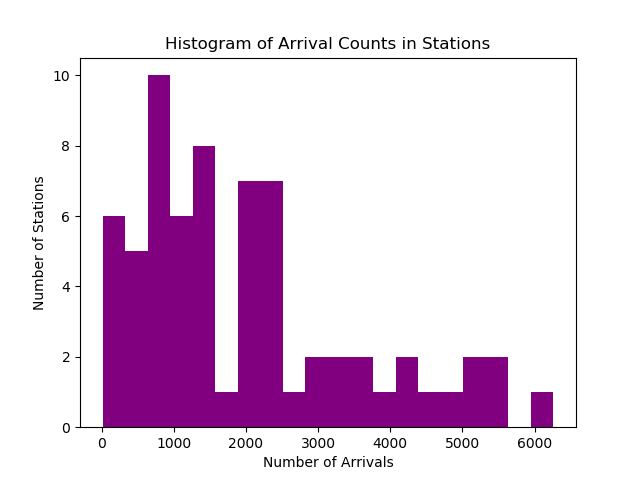
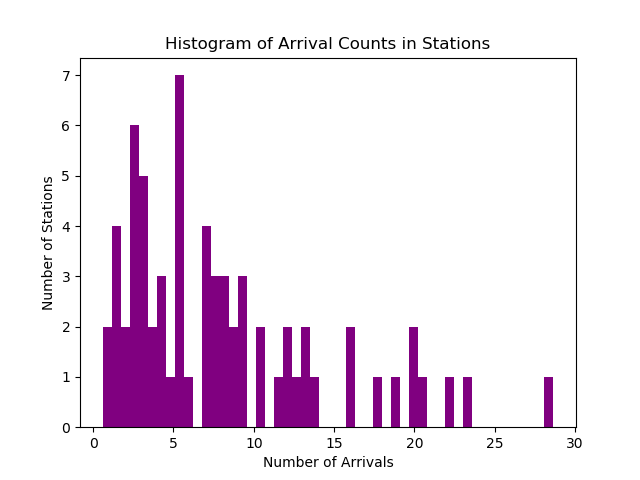
finished start/stop popularity

diff --git a/index.md b/index.md
@@ -13,39 +13,37 @@ A variety of other visualizations will be provided to answer questions throughou
 
 ### Start/Stop Stations Popularity
 
-I chose to cross-reference the keys in the provided data set with the [station metadata](https://bikeshare.metro.net/about/data/) so as to be able to provide the plain-text names of the most popular stations. The five most popular stations for arrival were
+I chose to cross-reference the keys in the provided data set with the [station metadata](https://bikeshare.metro.net/about/data/) so as to be able to provide the plain-text names of the most popular stations. Since different stations were opened at different times (and some have since closed), it is not sufficient to simply sum the arrivals and departures. Instead, we should find the average number of arrivals and departures per day for each station. Thus, I ran through the data to keep track of arrivals, departures, and opening and closing dates of stations (calculated as first and last recorded trip). These were used to calculate the stations with highest arrival and departure rates.
 
-1. 7th & Flower (4.7%, 6262 total)
-2. 7th & Spring (4.2%, 5517 total)
-3. Union Station West Portal (4.1%, 5385 total)
-4. 1st & Central (4%, 5293 total)
-5. Broadway & 3rd (3.8%, 5072 total)
+The five most popular stations for arrival were
+
+1. Broadway & 3rd (4.4%, 28.7 per day)
+2. 7th & Flower (4.3%, 23.5 per day)
+3. Traction & Rose (4%, 22 per day)
+4. 7th & Spring (3.8%, 20.7 per day)
+5. Union Station West Portal (3.7%, 20.2 per day)
 
 Similarly, the five most popular stations for departure were
 
-1. Broadway & 3rd (3.9%, 5138 total)
-2. Main & 1st (3.8%, 5059 total)
-3. 7th & Flower (3.7%, 4883 total)
-4. Grand & 7th (3.5%, 4661 total)
-5. 7th & Spring (3.5%, 4629 total)
+1. 3rd & Rose(4.4%, 24.1 per day)
+2. Broadway & 3rd (3.5%, 19.3 per day)
+3. Main & 1st (3.5%, 18.9 per day)
+4. 7th & Flower (3.4%, 18.3 per day)
+5. Traction & Rose (3.4%, 18.2 per day)
 
-One might notice that there is a good amount of overlap between the most common points of departure and arrival. In fact, 9 of the top 10 arrival and departure locations are shared. This makes a lot of sense, ass individuals who depart from one location and arrive at another are likely to later depart from their initial arrival station and arrive at their initial departure station (round trips will be a slight confounding factor here, but clearly not too large). I also chose to do a general aggregation of the data. Below I present histograms of the number of arrivals and departures
+One might notice that there is a good amount of overlap between the most common points of departure and arrival. In fact, all 10 arrival and departure locations are the same. This makes a lot of sense, as individuals who depart from one location and arrive at another are likely to later depart from their initial arrival station and arrive at their initial departure station. I also chose to do a general aggregation of the data. Below I present histograms of the number of arrivals and departures (data is binned into 50 subdivisions)
 
 ![departures_hist](/assets/departure_hist.png)
 
 ![arrivals_hist](/assets/arrivals_hist.png)
 
-#### Header 4
+We see that overall there are a couple of stations with higher arrival and departure rates, but the majority of stations have a relatively lower arrival and departure rates. It is also helpful to see these laid out geographically
 
-*   This is an unordered list following a header.
-*   This is an unordered list following a header.
-*   This is an unordered list following a header.
+## Average Distance Traveled
 
-##### Header 5
+## Number of Riders Including Bike Sharing as Regular Part of Commute
 
-1.  This is an ordered list following a header.
-2.  This is an ordered list following a header.
-3.  This is an ordered list following a header.
+Examining the provided data, we see that riders have one of four types of passes: Monthly Pass, Flex Pass, Walk-up, and Staff Annual. Of these, we presume that (as was noted on the MindSumo website) that the Walk-Up users are temporary or sporadic users, whereas the other three categories represent more regular users.
 
 ###### Header 6
 
